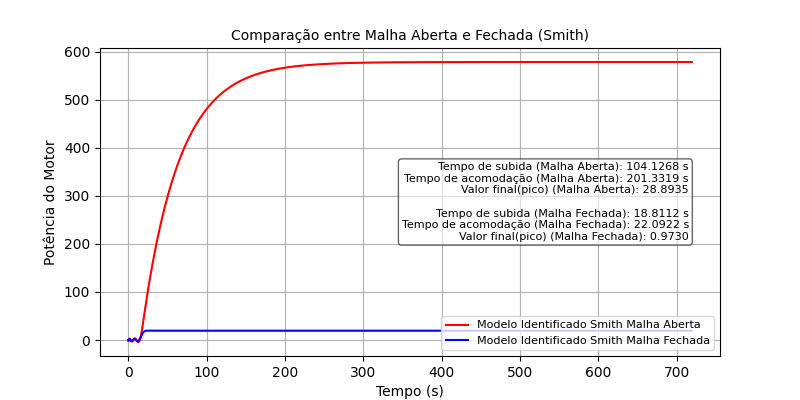
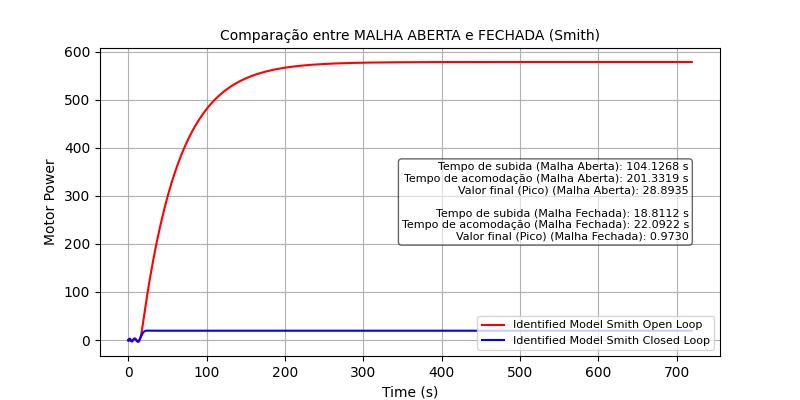
feat: possibilitando todos os datasets serem importados e ajustes na interface

diff --git a/main.py b/main.py
@@ -3,10 +3,11 @@ from tkinter import filedialog, Frame, Label
 from matplotlib.backends.backend_tkagg import FigureCanvasTkAgg
 from matplotlib.figure import Figure
 from scipy.io import loadmat
-from Projeto_pratico.method_smith import method_smith
-from Projeto_pratico.method_sundaresan import method_sundaresan
-from Projeto_pratico.pid_controller import pid_controller
-from Projeto_pratico.sys_identification import system_identification
+import numpy as np
+from method_smith import method_smith
+from method_sundaresan import method_sundaresan
+from pid_controller import pid_controller
+from sys_identification import system_identification
 
 # Global variables to hold data and results
 data = None
@@ -15,9 +16,16 @@ selected_method = None
 selected_control = None
 result_closed = None
 result_opened = None
+
+# Global variables to hold the selected PID methods
 selected_method_1 = 'Nenhum'
 selected_method_2 = 'Nenhum'
 selected_method_3 = 'Nenhum'
+
+# Variables to hold the input, output, and time data
+step = None
+output = None
+time = None
 
 # Variables for system identification results
 identification_smith = None
@@ -39,11 +47,34 @@ def select_file():
     Opens a file dialog to select a .mat file and loads the data for processing.
     '''
     global data
+    global step
+    global output
+    global time
+
     path_file = filedialog.askopenfilename(title='Selecione o arquivo .mat')  # Open file dialog
     file_name = path_file.split('/')[-1]  # Extract the filename from the path
     if path_file:  # If a file is selected
         data = loadmat(path_file)  # Load the .mat file
         label.configure(text=f"Arquivo {file_name} selecionado com sucesso!")  # Update label with success message
+
+        # Supondo que 'data' seja um dicionário contendo seus dados
+        TARGET_DATA____ProjetoC213_Degrau = data['TARGET_DATA____ProjetoC213_Degrau']
+        TARGET_DATA____ProjetoC213_PotenciaMotor = data['TARGET_DATA____ProjetoC213_PotenciaMotor']
+
+        # Verifica o formato (linhas, colunas) dos dados
+        lines, columns = np.shape(TARGET_DATA____ProjetoC213_Degrau)
+
+        if lines < columns:
+            # Caso com mais colunas do que linhas (dados organizados como [2, N])
+            time = TARGET_DATA____ProjetoC213_Degrau[0, :]  # Primeira linha é o tempo
+            step = TARGET_DATA____ProjetoC213_Degrau[1, :]  # Segunda linha é o degrau (step)
+            output = TARGET_DATA____ProjetoC213_PotenciaMotor[1, :]  # Segunda linha da saída (potência)
+        else:
+            # Caso com mais linhas do que colunas (dados organizados como [N, 2])
+            time = TARGET_DATA____ProjetoC213_Degrau[:, 0]  # Primeira coluna é o tempo
+            step = TARGET_DATA____ProjetoC213_Degrau[:, 1]  # Segunda coluna é o degrau (step)
+            output = TARGET_DATA____ProjetoC213_PotenciaMotor[:, 1]  # Segunda coluna da saída (potência)
+
         plot_graphs_initial()  # Generate initial graphs for the Smith and Sundaresan methods
 
 def plot_graphs_initial():
@@ -54,11 +85,11 @@ def plot_graphs_initial():
     global identification_smith
     global identification_sundaresan
 
+    global step
+    global output
+    global time
+
     if data is not None:  # Check if data is loaded
-        # Extract input, output, and time from data
-        step = data['TARGET_DATA____ProjetoC213_Degrau'][1]  # Input step (2nd row)
-        output = data['TARGET_DATA____ProjetoC213_PotenciaMotor'][1]  # Output (2nd row)
-        time = data['TARGET_DATA____ProjetoC213_Degrau'][0]  # Time (1st row)
 
         # Identify system using Smith and Sundaresan methods
         identification_smith = system_identification(step, time, output, 'Smith')
@@ -72,10 +103,7 @@ def plot_graphs_initial():
         results_sundaresan = method_sundaresan(step, time, output,
                                                identification_sundaresan['k'], identification_sundaresan['tau'],
                                                identification_sundaresan['theta'])
-
-        print(identification_smith)  # Print identification results for debugging
-        print(identification_sundaresan)  # Print identification results for debugging
-
+        
         # Graph 1: Smith Method
         fig1 = Figure(figsize=(5.5, 5), dpi=100)  # Create a new figure
         ax1 = fig1.add_subplot(111)  # Add a subplot
@@ -178,13 +206,13 @@ def plot_graphs_method():
     global result_closed
     global result_opened
 
+    global step
+    global output
+    global time
+
     # Check if data and comparison results are available
     if data is not None and comparison_result is not None:
 
-        # Extract input, output, and time
-        step = data['TARGET_DATA____ProjetoC213_Degrau'][1]
-        output = data['TARGET_DATA____ProjetoC213_PotenciaMotor'][1]
-        time = data['TARGET_DATA____ProjetoC213_Degrau'][0]
 
         # Process results based on comparison method
         if comparison_result == 'Smith':
@@ -222,7 +250,7 @@ def plot_graphs_method():
                 label=f'Identified Model {comparison_result} Closed Loop')
 
         # Set title and axis labels
-        ax.set_title(f'Comparison between Open Loop and Closed Loop ({comparison_result})', fontsize=10)
+        ax.set_title(f'Comparação entre MALHA ABERTA e FECHADA ({comparison_result})', fontsize=10)
         ax.set_xlabel('Time (s)')
         ax.set_ylabel('Motor Power')
 
@@ -235,12 +263,12 @@ def plot_graphs_method():
 
         # Text with performance information of the methods
         textstr = '\n'.join((
-            f'Rise Time (Open Loop): {result_opened["response_info"]["RiseTime"]:.4f} s',
-            f'Settling Time (Open Loop): {result_opened["response_info"]["SettlingTime"]:.4f} s',
-            f'Final Value (Peak) (Open Loop): {result_opened["response_info"]["Peak"]:.4f}\n',
-            f'Rise Time (Closed Loop): {result_closed["response_info"]["RiseTime"]:.4f} s',
-            f'Settling Time (Closed Loop): {result_closed["response_info"]["SettlingTime"]:.4f} s',
-            f'Final Value (Peak) (Closed Loop): {result_closed["response_info"]["Peak"]:.4f}'
+            f'Tempo de subida (Malha Aberta): {result_opened["response_info"]["RiseTime"]:.4f} s',
+            f'Tempo de acomodação (Malha Aberta): {result_opened["response_info"]["SettlingTime"]:.4f} s',
+            f'Valor final (Pico) (Malha Aberta): {result_opened["response_info"]["Peak"]:.4f}\n',
+            f'Tempo de subida (Malha Fechada): {result_closed["response_info"]["RiseTime"]:.4f} s',
+            f'Tempo de acomodação (Malha Fechada): {result_closed["response_info"]["SettlingTime"]:.4f} s',
+            f'Valor final (Pico) (Malha Fechada): {result_closed["response_info"]["Peak"]:.4f}'
         ))
 
         # Position the parameter box centrally vertically and to the right horizontally
@@ -284,23 +312,23 @@ def plot_graphs_method():
 
         # Update label texts based on results
         if result_opened['response_info']['RiseTime'] < result_closed['response_info']['RiseTime']:
-            rise_time_label.configure(text='The open loop system has a shorter rise time.')
+            rise_time_label.configure(text='O sistema em MALHA ABERTA tem menor tempo de subida')
         else:
-            rise_time_label.configure(text='The closed loop system has a shorter rise time.')
+            rise_time_label.configure(text='O sistema em MALHA FECHADA tem menor tempo de subida')
 
         if result_opened['response_info']['SettlingTime'] < result_closed['response_info']['SettlingTime']:
-            settling_time_label.configure(text='The open loop system has a shorter settling time.')
+            settling_time_label.configure(text='O sistema em MALHA ABERTA tem menor tempo de acomodação')
         else:
-            settling_time_label.configure(text='The closed loop system has a shorter settling time.')
+            settling_time_label.configure(text='O sistema em MALHA FECHADA tem menor tempo de acomodação')
 
         if result_opened['response_info']['Peak'] > result_closed['response_info']['Peak']:
-            peak_label.configure(text='The open loop system has a higher final value (peak).')
+            peak_label.configure(text='O sistema em MALHA ABERTA tem maior valor final (pico)')
         else:
-            peak_label.configure(text='The closed loop system has a higher final value (peak).')
+            peak_label.configure(text='O sistema em MALHA FECHADA tem maior valor final (pico)')
 
         # Display MSE results
-        eqm_opened_label.configure(text=f'Mean Squared Error (MSE) for Open Loop: {result_opened["MSE"]:.4f}')
-        eqm_closed_label.configure(text=f'Mean Squared Error (MSE) for Closed Loop: {result_closed["MSE"]:.4f}')
+        eqm_opened_label.configure(text=f'Erro Quadrático Médio (EQM) para MALHA ABERTA: {result_opened["MSE"]:.4f}')
+        eqm_closed_label.configure(text=f'Erro Quadrático Médio (EQM) para MALHA FECHADA: {result_closed["MSE"]:.4f}')
 
 
 def plot_graphs_pid():
@@ -309,6 +337,11 @@ def plot_graphs_pid():
 
     # Check if data and result_closed are available
     if data is not None and result_closed is not None:
+
+        first_graph = None
+        second_graph = None
+        third_graph = None
+
         # Generate graphs based on the comparison result
         if comparison_result == 'Smith':
             first_graph = pid_controller(
@@ -366,10 +399,11 @@ def plot_graphs_pid():
                 selected_method_3
             )
 
+        fig1 = Figure(figsize=(3.7, 3.7), dpi=100)
+        ax1 = fig1.add_subplot(111)
+
         # Plot the first graph if it is a valid dictionary
         if isinstance(first_graph, dict):
-            fig1 = Figure(figsize=(3.7, 3.7), dpi=100)
-            ax1 = fig1.add_subplot(111)
 
             ax1.plot(first_graph['result_time'], first_graph['result_model'], 'red', label='PID')
             ax1.axvline(first_graph['response_info']['RiseTime'], color='green', linestyle='--', label='Rise Time')
@@ -399,10 +433,11 @@ def plot_graphs_pid():
 
             save_graph(fig1, 'method_1')
 
+        fig2 = Figure(figsize=(3.7, 3.7), dpi=100)
+        ax2 = fig2.add_subplot(111)
+
         # Plot the second graph if it is a valid dictionary
         if isinstance(second_graph, dict):
-            fig2 = Figure(figsize=(3.7, 3.7), dpi=100)
-            ax2 = fig2.add_subplot(111)
 
             ax2.plot(second_graph['result_time'], second_graph['result_model'], 'red', label='PID')
             ax2.axvline(second_graph['response_info']['RiseTime'], color='green', linestyle='--', label='Rise Time')
@@ -431,10 +466,11 @@ def plot_graphs_pid():
 
             save_graph(fig2, 'method_2')
 
+        fig3 = Figure(figsize=(3.7, 3.7), dpi=100)
+        ax3 = fig3.add_subplot(111)
+
         # Plot the third graph if it is a valid dictionary
         if isinstance(third_graph, dict):
-            fig3 = Figure(figsize=(3.7, 3.7), dpi=100)
-            ax3 = fig3.add_subplot(111)
 
             ax3.plot(third_graph['result_time'], third_graph['result_model'], 'red', label='PID')
             ax3.axvline(third_graph['response_info']['RiseTime'], color='green', linestyle='--', label='Rise Time')
@@ -517,16 +553,16 @@ sidebar = ctk.CTkFrame(app, width=200)
 sidebar.pack(side='right', fill='y', padx=10)
 
 # Button to switch to the initial screen
-button_to_initial = ctk.CTkButton(sidebar, text='Home Screen', command=lambda: switch_screen(frame_initial))
+button_to_initial = ctk.CTkButton(sidebar, text='Tele inicial', command=lambda: switch_screen(frame_initial))
 button_to_initial.pack(pady=10, padx=10)
 
 # Button to switch to the comparisons analysis screen
-button_to_comparisons = ctk.CTkButton(sidebar, text='Analysis - Method',
+button_to_comparisons = ctk.CTkButton(sidebar, text='Análise - Método',
                                       command=lambda: switch_screen(frame_comparisons))
 button_to_comparisons.pack(pady=10, padx=10)
 
 # Button to switch to the advanced control definition screen
-button_to_advanced = ctk.CTkButton(sidebar, text='Define Control', command=lambda: switch_screen(frame_pid))
+button_to_advanced = ctk.CTkButton(sidebar, text='Definir controle', command=lambda: switch_screen(frame_pid))
 button_to_advanced.pack(pady=10, padx=10)
 
 # Creating Frames for different screens
@@ -535,7 +571,7 @@ frame_comparisons = ctk.CTkFrame(app)
 frame_pid = ctk.CTkFrame(app)
 
 # Centralized title at the top of the application
-title_label = ctk.CTkLabel(app, text="Comparison of Identification Methods", font=("Arial", 24))
+title_label = ctk.CTkLabel(app, text="Identificação de Processos e Sintonia de Controladores PID", font=("Arial", 24))
 title_label.pack(side='top', pady=10)
 
 # Initial Screen - Button to select file and display Smith and Sundaresan graphs
@@ -543,11 +579,11 @@ arquive_frame = ctk.CTkFrame(frame_initial)
 arquive_frame.pack(pady=5, padx=20, fill='x')
 
 # Button for selecting .mat file
-button_file = ctk.CTkButton(arquive_frame, text='Select .mat file', command=select_file)
+button_file = ctk.CTkButton(arquive_frame, text='Selecione um arquivo .mat', command=select_file)
 button_file.pack(side='left', padx=10, pady=10)
 
 # Label prompting the user to select the .mat file
-label = ctk.CTkLabel(arquive_frame, text='Click the button to select the .mat file')
+label = ctk.CTkLabel(arquive_frame, text='Clique no botão para selecionar um arquivo .mat')
 label.pack(side='left', padx=10)
 
 # Frame for plots on the initial screen
@@ -564,8 +600,7 @@ frame_method_plots.pack(fill='both', expand=True, padx=20, pady=20)
 
 # Advanced Control Screen - Selection of control methods
 # PID control method options
-pid_methods = ["None", "Ziegler Nichols Open Loop", "IMC", "CHR without Overshoot", "CHR with Overshoot",
-               "Cohen and Coon", "ITAE"]
+pid_methods = ["Nenhum","Ziegler Nichols Malha Aberta","IMC","CHR sem Sobrevalor","CHR com Sobrevalor","Cohen e Coon","ITAE"]
 
 # Frame for buttons on the advanced control screen
 frame_buttons = ctk.CTkFrame(frame_pid)

diff --git a/method_smith.py b/method_smith.py
@@ -52,9 +52,6 @@ def method_smith(step, time, output, k, tau, theta, mesh='Opened'):
         # Calculate the Mean Squared Error (MSE) between the model response and the actual output
         MSE = np.sqrt(np.sum((result_model - output) ** 2) / len(output))
 
-        # Print the transfer function of the estimated model for verification
-        print(result_estimated_model)
-
         # Get step response characteristics (rise time, settling time, etc.)
         response_info = ctrl.step_info(result_estimated_model)
 
